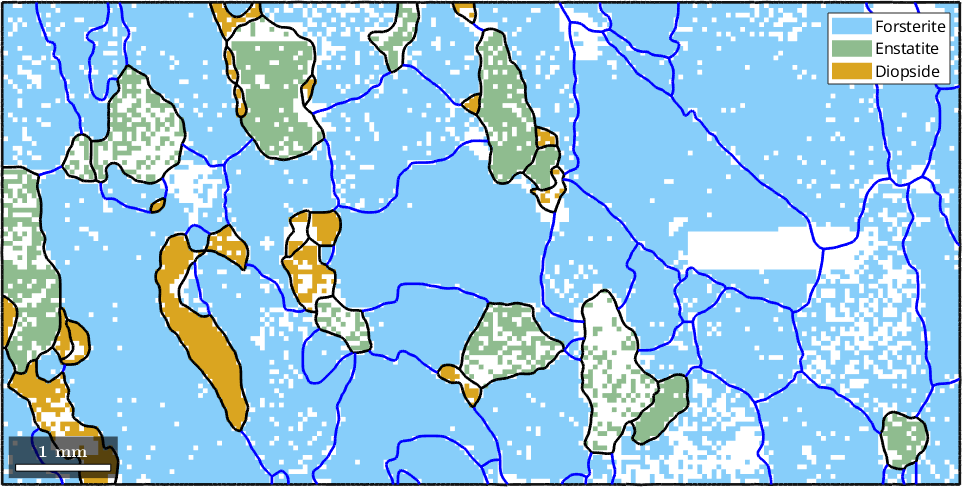
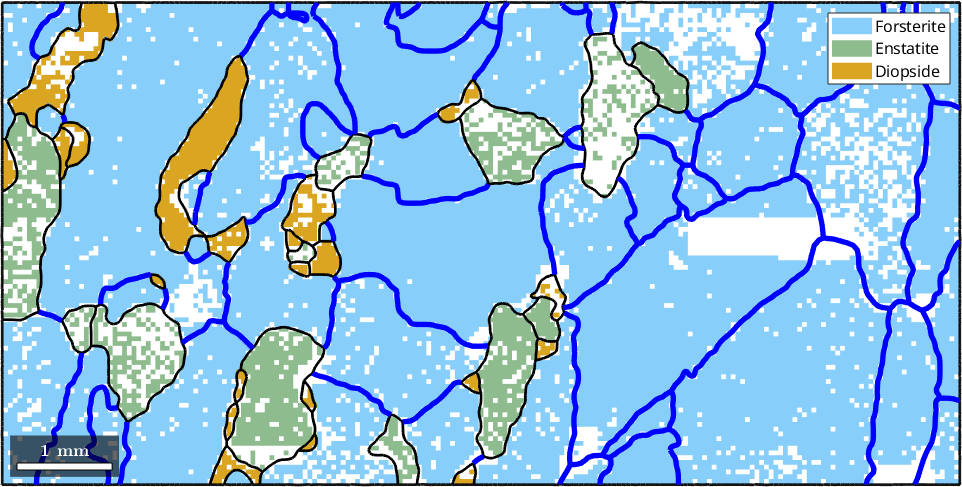
docu

diff --git a/pages/documentation_matlab/EBSDSharpPlot.html b/pages/documentation_matlab/EBSDSharpPlot.html
@@ -26,7 +26,7 @@ To make changes, update the MATLAB code and republish this document.
 <p>In this section we discuss color keys that are particular useful when analyzing data with very small deviation in orientation. Let us consider the following calcite data set</p>
 {% highlight matlab %}
 % plotting conventions
-plotx2east, plotb2east
+plotx2east
 mtexdata sharp
 
 ebsd = ebsd('calcite');
@@ -146,10 +146,7 @@ I'm plotting 10 random orientations out of 20119 given orientations
 <h2 id="9">The axis angle color key</h2>
 <p>A second option to visualize small orientation deviation, e.g. within a grains is the <a href="axisAngleColorKey.axisAngleColorKey.html">axis-angle color key</a>. In order to demonstrate this color key let us first separate the EBSD into grains.</p>
 {% highlight matlab %}
-[grains,ebsd.grainId] = calcGrains(ebsd,'angle',1.5*degree);
-ebsd(grains(grains.grainSize<=3)) = [];
-[grains,ebsd.grainId] = calcGrains(ebsd,'angle',1.5*degree);
-
+[grains,ebsd.grainId] = calcGrains(ebsd,'angle',1.5*degree,'minPixel',3);
 grains = smooth(grains,5);
 {% endhighlight %}
 <p>In order to apply the @axisAngleColorKey we need to specify the crystal symmetry and a reference orientation <code class="language-plaintext highlighter-rouge">oriRef</code>. Often the meanorientation of the grains is a good choice.</p>
@@ -157,9 +154,9 @@ grains = smooth(grains,5);
 ipfKey = axisAngleColorKey(ebsd('indexed'));
 
 % use for the reference orientation the grain mean orientation
-ipfKey.oriRef = grains.meanOrientation(ebsd.grainId);
+ipfKey.oriRef = grains.meanOrientation(ebsd('indexed').grainId);
 
-plot(ebsd,ipfKey.orientation2color(ebsd.orientations))
+plot(ebsd('indexed'),ipfKey.orientation2color(ebsd('indexed').orientations))
 
 hold on
 plot(grains.boundary,'lineWidth',4)
@@ -186,48 +183,20 @@ hold off
 <center>
 {% include inline_image.html file="EBSDSharpPlot_09.png" %}
 </center>
-<p>Another example is when analyzing the orientation distribution within grains</p>
+<p>Another application for sharp color keys is the analysis of orientation gradients within grains</p>
 {% highlight matlab %}
-mtexdata forsterite
-ebsd = ebsd('indexed');
+mtexdata forsterite silent
 
 % segment grains
-[grains,ebsd.grainId] = calcGrains(ebsd);
+[grains,ebsd.grainId] = calcGrains(ebsd('indexed'));
 
 % find largest grains
-largeGrains = grains(grains.grainSize > 800)
+largeGrains = grains(grains.grainSize > 800);
 
 ebsd = ebsd(largeGrains(1))
 {% endhighlight %}
 
 {% highlight plaintext %}
-ebsd = EBSD
- 
- Phase  Orientations     Mineral         Color  Symmetry  Crystal reference frame
-     0   58485 (24%)  notIndexed                                                 
-     1  152345 (62%)  Forsterite  LightSkyBlue       mmm                         
-     2   26058 (11%)   Enstatite  DarkSeaGreen       mmm                         
-     3   9064 (3.7%)    Diopside     Goldenrod     12/m1       X||a*, Y||b*, Z||c
- 
- Properties: bands, bc, bs, error, mad
- Scan unit : um
- X x Y x Z : [0 36550] x [0 16750] x [0 0]
- Normal vector: (0,0,1)
- 
- 
-largeGrains = grain2d
- 
- Phase  Grains  Pixels     Mineral  Symmetry  Crystal reference frame
-     1      56   85514  Forsterite       mmm                         
-     2       2    1969   Enstatite       mmm                         
- 
- boundary segments: 17904 (812029 µm)
- inner boundary segments: 222 (10022 µm)
- triple points: 1247
- 
- Properties: meanRotation, GOS
- 
- 
 ebsd = EBSD
  
  Phase  Orientations     Mineral         Color  Symmetry  Crystal reference frame

diff --git a/pages/documentation_matlab/BoundarySelect.html b/pages/documentation_matlab/BoundarySelect.html
@@ -30,7 +30,7 @@ close all; plotx2east
 % import the data
 mtexdata forsterite silent
 
-% restrict it to a subregion of interest.
+% restrict it to a sub-region of interest.
 ebsd = ebsd(inpolygon(ebsd,[5 2 10 5]*10^3));
 
 % and recompute grains
@@ -57,35 +57,35 @@ grains.boundary
 ans = grainBoundary
  
  Segments    length   mineral 1   mineral 2
-      883  27479 µm  notIndexed  Forsterite
-       35   1563 µm  notIndexed   Enstatite
+      875  27592 µm  notIndexed  Forsterite
+       37   1562 µm  notIndexed   Enstatite
        43   1361 µm  notIndexed    Diopside
-     1403  58204 µm  Forsterite  Forsterite
-      566  25123 µm  Forsterite   Enstatite
-      476  19543 µm  Forsterite    Diopside
-       23   1157 µm   Enstatite   Enstatite
-       89   3594 µm   Enstatite    Diopside
-       28   1250 µm    Diopside    Diopside
+     1398  56197 µm  Forsterite  Forsterite
+      654  26372 µm  Forsterite   Enstatite
+      522  20750 µm  Forsterite    Diopside
+       35   1296 µm   Enstatite   Enstatite
+      134   5802 µm   Enstatite    Diopside
+       23    951 µm    Diopside    Diopside
 {% endhighlight %}
-<p>tells us the number of boundary segments between the different phsaes. Those segments with notIndexed phase include also those boundary segments where the grains are cutted by the scanning boundary. To restrict the grain boundaries to a specific phase transistion you shall do</p>
+<p>tells us the number of boundary segments between the different phases. Those segments with phase <code class="language-plaintext highlighter-rouge">'notIndexed'</code> include also those boundary segments where the grains are cut by the scanning boundary. To restrict the grain boundaries to a specific phase transition you shall do</p>
 {% highlight matlab %}
 hold on
-plot(grains.boundary('Fo','Fo'),'lineColor','blue','micronbar','off','lineWidth',2)
+plot(grains.boundary('Fo','Fo'),'lineColor','blue','micronbar','off','lineWidth',4)
 hold off
 {% endhighlight %}
 <center>
 {% include inline_image.html file="BoundarySelect_02.png" %}
 </center>
-<p>Similarly we may select all Forsterite to enstatite boundary segements.</p>
+<p>Similarly, we may select all Forsterite to Enstatite boundary segments.</p>
 {% highlight matlab %}
 hold on
-plot(grains.boundary('Fo','En'),'lineColor','darkgreen','micronbar','off','lineWidth',2)
+plot(grains.boundary('Fo','En'),'lineColor','darkgreen','micronbar','off','lineWidth',4)
 hold off
 {% endhighlight %}
 <center>
 {% include inline_image.html file="BoundarySelect_03.png" %}
 </center>
-<p>Note, that the order of the phase names matter when considering the corresponding misorintations</p>
+<p>Note, that the order of the phase names matter when considering the corresponding misorientations</p>
 {% highlight matlab %}
 grains.boundary('Fo','En').misorientation(1)
 grains.boundary('En','Fo').misorientation(1)
@@ -106,7 +106,7 @@ ans = misorientation (Enstatite → Forsterite)
   55.3267 50.6875 300.014
 {% endhighlight %}
 <p>In the fist case the misorientation returned is from Forsterite to Enstatite and in the second case its exactly the inverse</p>
-<p>The selection of grain boundaries according to specific misorientationsm according to twist / tild character or twinning is explained in linked sections.</p>
+<p>The selection of grain boundaries according to specific misorientations according to twist / tilt character or twinning is explained in linked sections.</p>
 </div>
 </body>
 </html>
